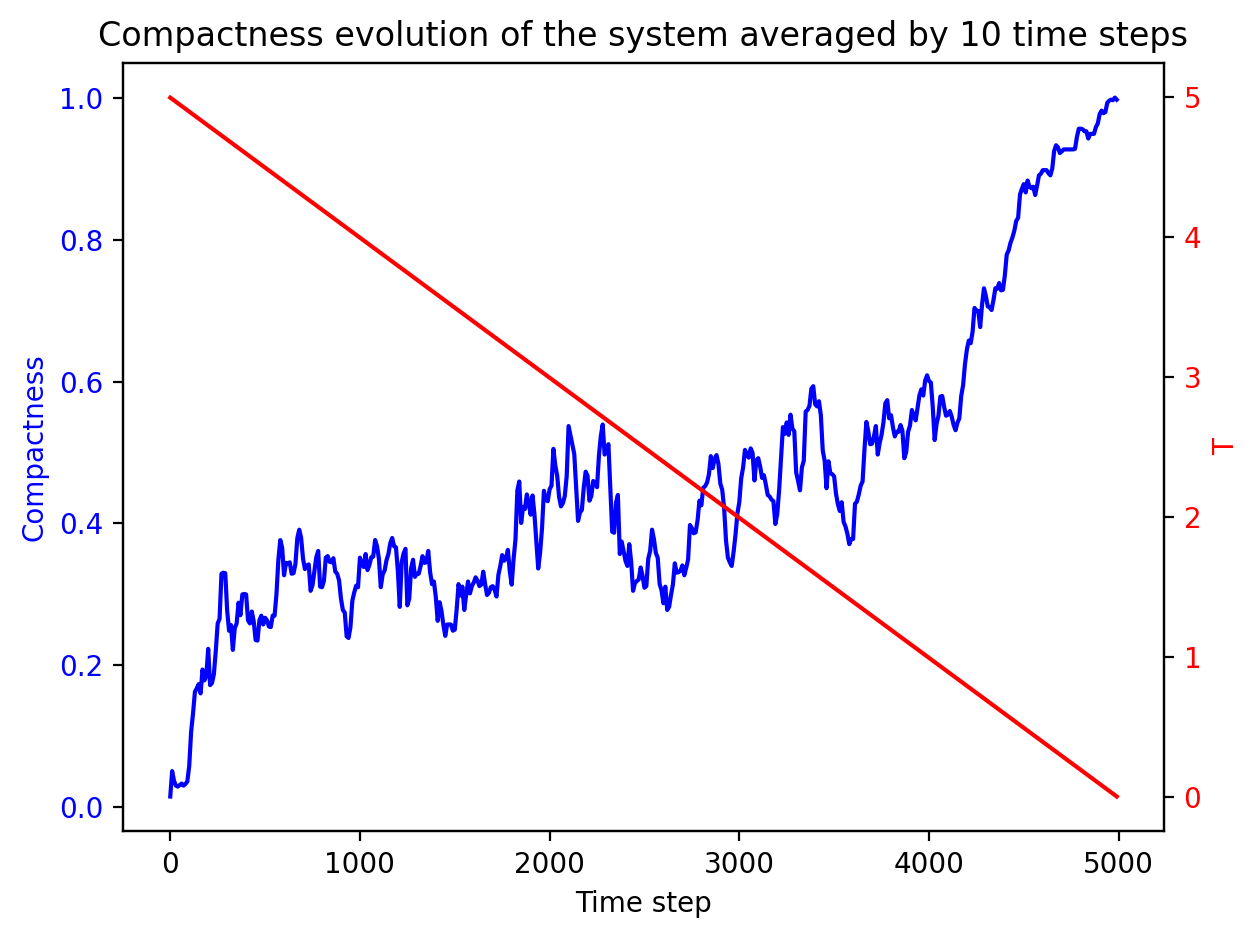
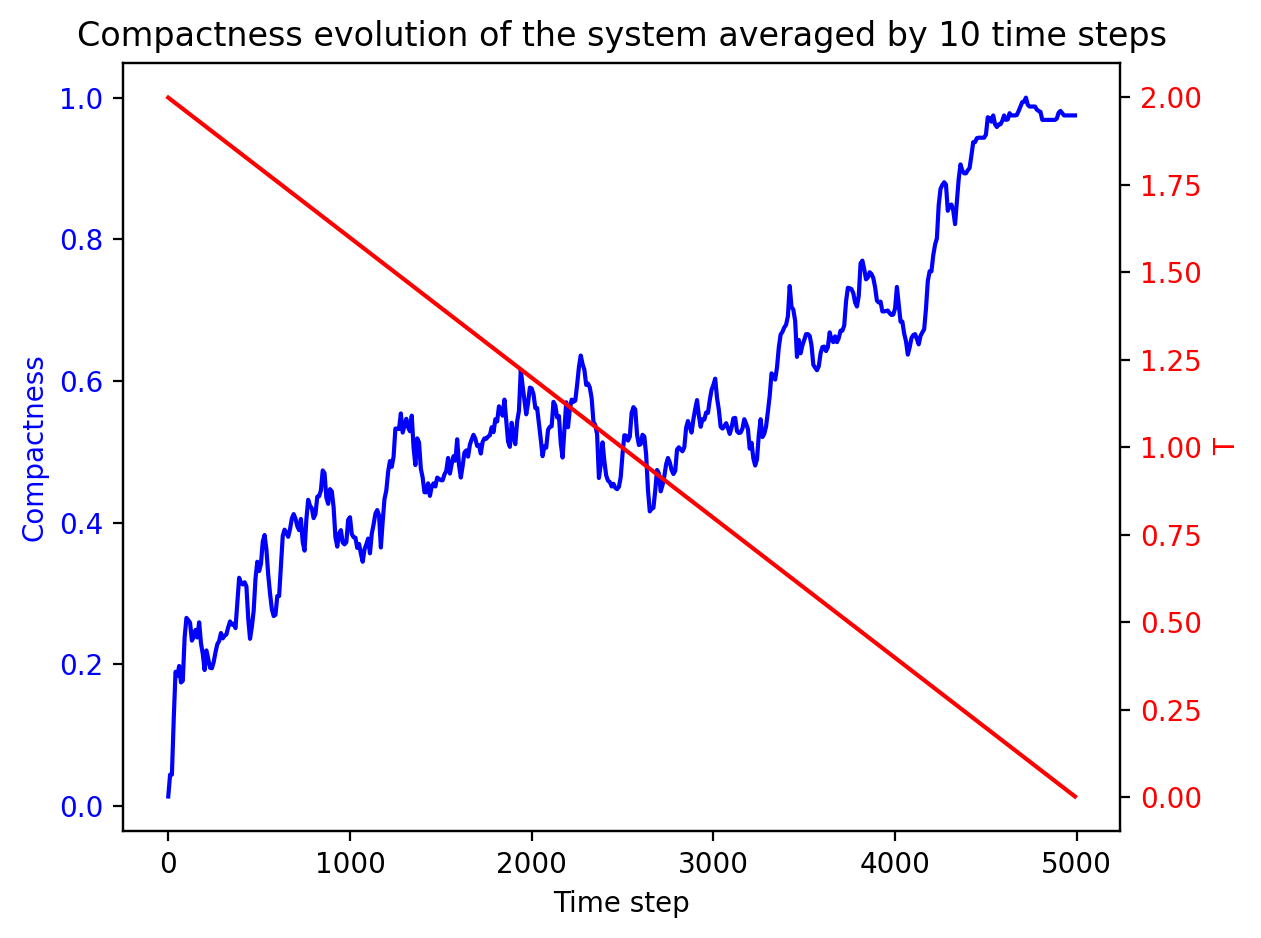
Using yaml configuration files instead of txt files

diff --git a/src/utils.py b/src/utils.py
@@ -1,7 +1,6 @@
 """
 @author: Tommaso Giacometti
 """
-import json
 
 from math import isclose
 
@@ -104,9 +103,6 @@ def get_dist(coord1: list[float], coord2: list[float]) -> float:
     dx = coord1[0] - coord2[0]
     dy = coord1[1] - coord2[1]
     return sqrt(dx ** 2 + dy ** 2)
-
-
-import random
 
 
 def diagonal_move(struct: list[list[int]], previous: list[int]) -> list[list[int]]:
@@ -250,50 +246,39 @@ def progress_bar(progress: int, total: int) -> None:
         print()  # newline after completion
 
 
+import yaml
+import random
+
+
 class Configuration:
     """
-    Class to parse and store parameters from an input configuration file.
-
-    Parameters
-    ----------
-    config : ConfigParser
-        ConfigParser object of the input file.
-
-    Attributes
-    ----------
-    seq : str
-        Protein sequence.
-    folds : int
-        Number of folding steps.
-    use_struct : bool
-        Whether to use the structure provided in the config file.
-    annealing : bool
-        Whether to use annealing.
-    temperature : float
-        Starting temperature.
-    struct : list, optional
-        Initial structure, if use_struct is True.
-    gif : bool
-        Whether to create a GIF of the folding.
-    seed : int
-        Random seed.
+    Class to parse and store parameters from a YAML configuration file.
     """
 
-    def __init__(self, config) -> None:
-        self.seq = config['SEQUENCE']['sequence']
-        self.folds = config['PROCESS'].getint('folding_steps')
-        self.use_struct = config['optional'].getboolean('use_structure')
-        self.annealing = config['optional'].getboolean('annealing')
-        self.temperature = config['optional'].getfloat('T')
-        self.struct = None
+    def __init__(self, filename: str) -> None:
+        with open(filename, 'r') as f:
+            config = yaml.safe_load(f)
 
-        if self.use_struct:
-            struct_str = config['optional']['structure']
-            self.struct = json.loads(struct_str)
+        # Sequence
+        self.seq = config['sequence']
 
-        self.gif = config['optional'].getboolean('create_gif')
+        # Structure options
+        structure_cfg = config.get('structure_options', {})
+        self.use_struct = structure_cfg.get('use_structure')
+        self.struct = structure_cfg.get('coordinates') if self.use_struct else None
 
-        seed = config['random_seed']['seed']
-        if seed == 'None':
-            seed = random.randint(0, 10000)
-        self.seed = int(seed)
+        # Simulation options
+        sim_cfg = config.get('simulation', {})
+        self.folds = sim_cfg.get('folding_steps')
+        self.annealing = sim_cfg.get('annealing')
+        self.temperature = sim_cfg.get('temperature')
+
+        # Plot options
+        plot_cfg = config.get('plot', {})
+        self.gif = plot_cfg.get('create_gif')
+
+        # Seed
+        seed_val = config.get('seed', None)
+        if seed_val is None or seed_val == 'None':
+            seed_val = random.randint(0, 10000)
+        self.seed = int(seed_val)

diff --git a/src/main.py b/src/main.py
@@ -1,60 +1,39 @@
 """
 @author: Tommaso Giacometti
 """
-import argparse
-import configparser
 import random
 import time
-
-import matplotlib.pyplot as plt
 
 import plots
 import utils
 from protein_class import Protein
 
 if __name__ == '__main__':
-    # Parser to get from terminal the configuration file
-    parser = argparse.ArgumentParser()
-
-    # the filename is optional, the default is the config.txt
-    parser.add_argument('configuration_file',
-                        help='file from which takes the configuration',
-                        default='config.txt',
-                        nargs='?')
-
-    args = parser.parse_args()  # get the args written in the terminal
-    filename = args.configuration_file  # assign filename
-
-    # setting the parameters from configuration file
-    configuration = configparser.ConfigParser()
-    configuration.read(filename)
-
-    config = utils.Configuration(configuration)  # class to get the save the configuration from the file
+    config = utils.Configuration("config.yaml")  # class to get the save the configuration from the file
 
     # Random seed setting
     random.seed(config.seed)
-    # print(f'The random seed used is {config.seed}')
 
-    prot = Protein(config)  #  Protein class
+    protein = Protein(config)
 
-    plots.view(protein=prot, tit='Initial configuration')  # plot the structure of the protein
+    # plots.view(protein, tit='Initial configuration')
 
     start = time.time()
 
     print('--------------------')
     print('Evolution started...')
-    prot.evolution()
+    protein.evolution()
     print('Evolution ended')
     print(f'It took {time.time() - start:.3f} seconds')
     print('---------------')
 
-    plots.view(protein=prot, save=False, tit='Final configuration')
-    plots.view_min_en(protein=prot)
-    plots.view_max_comp(protein=prot)
-    plots.plot_energy(protein=prot, avg=10)
-    plots.plot_compactness(protein=prot, avg=10)
+    plots.view(protein, save=False, tit='Final configuration')
+    plots.view_min_en(protein)
+    plots.view_max_comp(protein)
+    plots.plot_energy(protein)
+    plots.plot_compactness(protein)
 
-    plt.show()
+    # plt.show()
 
     if config.gif:
-        plots.create_gif(protein=prot)
+        plots.create_gif(protein=protein)

diff --git a/src/plots.py b/src/plots.py
@@ -106,7 +106,7 @@ def view_max_comp(protein, save=True):
         plt.savefig("../data/max_compactness_view.png", format="png", bbox_inches="tight", dpi=200)
 
 
-def plot_energy(protein, avg: int = 1, save=True) -> None:
+def plot_energy(protein, avg: int = 10, save=True) -> None:
     '''
     plot the energy evolution of the system.
     As first argument the protein class instance of the desired protein is needed.
@@ -115,7 +115,7 @@ def plot_energy(protein, avg: int = 1, save=True) -> None:
     Parameters
     ----------
     avg : int, optional
-        The energy will be averaged every avg steps. The default is 1.
+        The energy will be averaged every avg steps. The default is 10.
 
     Returns
     -------
@@ -145,7 +145,7 @@ def plot_energy(protein, avg: int = 1, save=True) -> None:
         plt.savefig("../data/energy_evolution.png", format="png", bbox_inches="tight", dpi=200)
 
 
-def plot_compactness(protein, avg: int = 1, save=True) -> None:
+def plot_compactness(protein, avg: int = 10, save=True) -> None:
     '''
     plot the compactness evolution of the system.
     As first argument the protein class instance of the desired protein is needed.
@@ -154,7 +154,7 @@ def plot_compactness(protein, avg: int = 1, save=True) -> None:
     Parameters
     ----------
     avg : int, optional
-        The compactness will be averaged every avg steps. The default is 1.
+        The compactness will be averaged every avg steps. The default is 10.
 
     Returns
     -------

diff --git a/src/protein_class.py b/src/protein_class.py
@@ -27,6 +27,13 @@ class Protein:
         self._initialize_parameters(config)
         self._initialize_tracking()
 
+    def print_config(self) -> None:
+        """Print configuration options selected by the user."""
+        print(f"Sequence: {self.sequence}")
+        print(f"Folding steps: {self.steps}")
+        print(f"Annealing enabled: {self.annealing}")
+        print(f"Starting temperature: {self.starting_temperature}")
+
     def _initialize_sequence(self, config: utils.Configuration) -> None:
         """Initialize protein sequence, converting to HP if needed."""
         print("Sequence:", config.seq)
@@ -34,7 +41,7 @@ class Protein:
             self.sequence = config.seq
         else:
             self.sequence = utils.hp_sequence_transform(config.seq)
-            print("HP representation:", self.sequence)
+            # print("HP representation:", self.sequence)
         self.sequence_length = len(self.sequence)
 
     def _initialize_structure(self, config: utils.Configuration) -> None:
@@ -71,6 +78,7 @@ class Protein:
 
     def evolution(self) -> None:
         """Let the system evolve for `self.steps` steps using the Metropolis algorithm."""
+        self.print_config()
         temp = self.starting_temperature
         annealing_coef = -temp / self.steps
 

diff --git a/test/test.py b/test/test.py
@@ -2,7 +2,6 @@
 @author: Tommaso Giacometti
 """
 
-import configparser
 import os
 import random
 import sys
@@ -14,11 +13,8 @@ sys.path.append(os.path.abspath(os.path.join(os.path.dirname(__file__), '../src'
 import protein_class as p
 import utils
 
-configuration = configparser.ConfigParser()
-config_path = os.path.join(os.path.dirname(__file__), 'config_test.txt')
-configuration.read(config_path)
-
-config = utils.Configuration(configuration)
+config_path = os.path.join(os.path.dirname(__file__), 'config_test.yaml')
+config = utils.Configuration(config_path)
 
 correct_structure = [[0, 0], [0, 1], [1, 1], [1, 2], [1, 3], [2, 3], [2, 2], [2, 1], [2, 0], [2, -1], [1, -1], [0, -1],
                      [-1, -1]]
